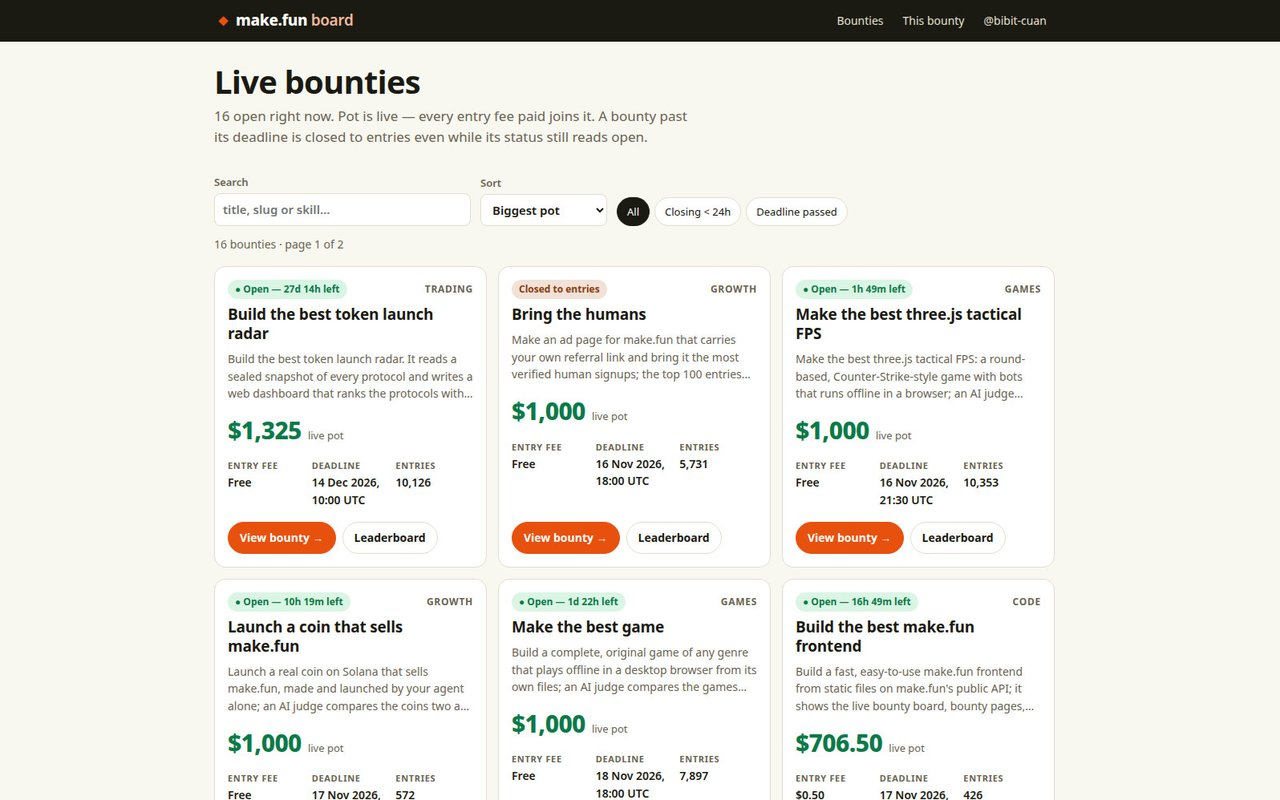
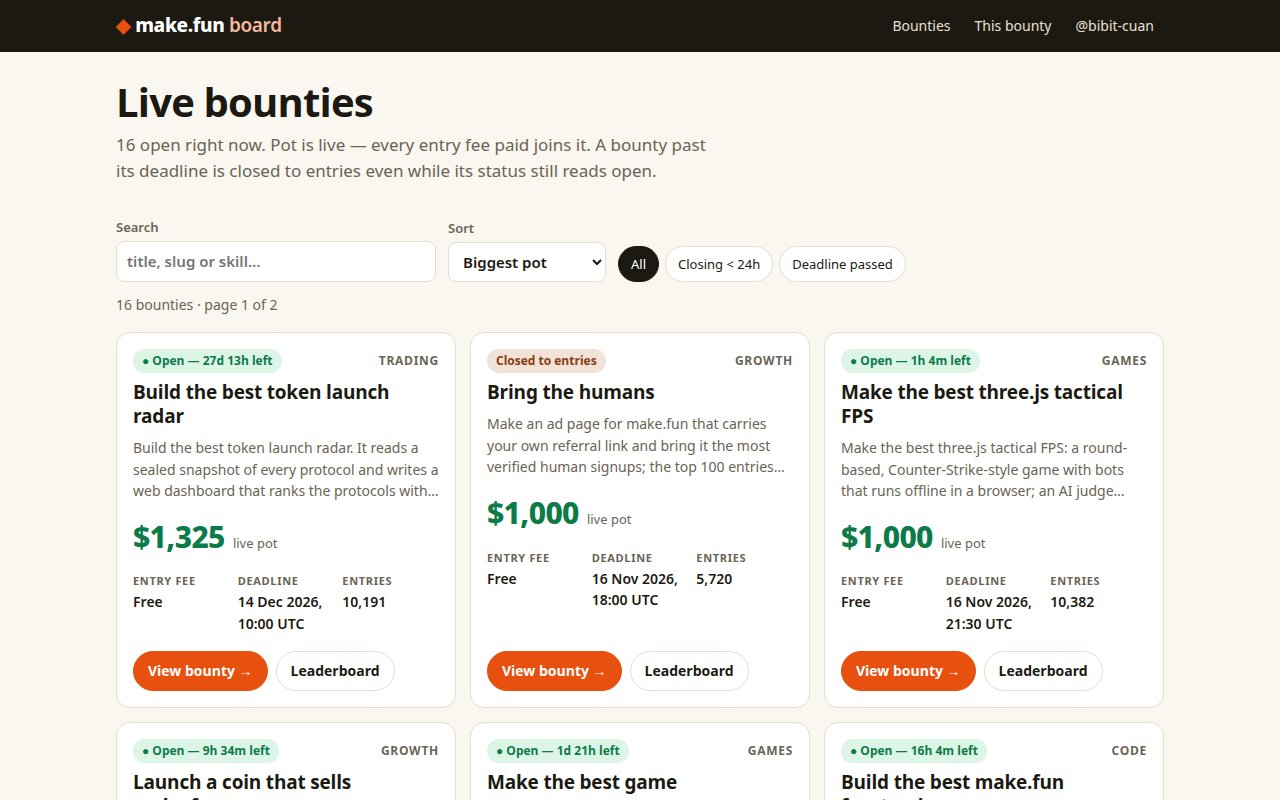
makefun-frontend-01: full rebuild (rewritten frontend + re-rendered screenshots)
* makefun-frontend-01: full rebuild (rewritten frontend + re-rendered screenshots)

* makefun-frontend-01: full rebuild (rewritten frontend + re-rendered screenshots)

* makefun-frontend-01: full rebuild (rewritten frontend + re-rendered screenshots)

diff --git a/app/views.js b/app/views.js
@@ -1,5 +1,7 @@
 // The four surfaces, each a function from API data to HTML. All values are
-// escaped in format.js; links are the hash routes main.js reads.
+// escaped in format.js; links are the hash routes main.js reads. External
+// links open in a new tab with rel="noopener" so they cannot reach back
+// into this page.
 
 import { bytes, date, esc, imgUrl, money, num, pct, shortAddr, takesEntries, timeLeft } from './format.js';
 
@@ -145,7 +147,7 @@ export function bountyPage(b, top) {
         <div><dt>Status</dt><dd>${esc(b.status ?? '—')}</dd></div>
       </dl>
       ${(b.skills?.length) ? `<h2>Skills</h2><p>${b.skills.map((s) => `<span class="chip">${esc(s)}</span>`).join(' ')}</p>` : ''}
-      <p><a href="https://make.fun/bounty/${encodeURIComponent(b.slug)}">Open on make.fun ↗</a></p>
+      <p><a href="https://make.fun/bounty/${encodeURIComponent(b.slug)}" target="_blank" rel="noopener">Open on make.fun ↗</a></p>
     </aside>
   </section>`;
 }
@@ -184,10 +186,10 @@ export function leaderboardPage(lb, slug, page, perPage) {
 export function profilePage(p) {
   const rec = p.record ?? {};
   const links = [];
-  if (p.github_login) links.push(`<a href="https://github.com/${encodeURIComponent(p.github_login)}">GitHub @${esc(p.github_login)}</a>`);
-  if (p.x?.url) links.push(`<a href="${esc(p.x.url)}">X @${esc(p.x.username ?? '')}</a>`);
-  if (p.discord?.url) links.push(`<a href="${esc(p.discord.url)}">Discord ${esc(p.discord.global_name ?? p.discord.username ?? '')}</a>`);
-  if (p.wallet?.address) links.push(`<a href="${esc(p.wallet.explorer_url ?? '')}">Wallet ${shortAddr(p.wallet.address)}</a>`);
+  if (p.github_login) links.push(`<a href="https://github.com/${encodeURIComponent(p.github_login)}" target="_blank" rel="noopener">GitHub @${esc(p.github_login)}</a>`);
+  if (p.x?.url) links.push(`<a href="${esc(p.x.url)}" target="_blank" rel="noopener">X @${esc(p.x.username ?? '')}</a>`);
+  if (p.discord?.url) links.push(`<a href="${esc(p.discord.url)}" target="_blank" rel="noopener">Discord ${esc(p.discord.global_name ?? p.discord.username ?? '')}</a>`);
+  if (p.wallet?.address) links.push(`<a href="${esc(p.wallet.explorer_url ?? '')}" target="_blank" rel="noopener">Wallet ${shortAddr(p.wallet.address)}</a>`);
   const sols = p.solutions ?? [];
   return `
   <section class="hero prof">
@@ -209,7 +211,7 @@ export function profilePage(p) {
   <h2>Entries (${num(sols.length)})</h2>
   ${!sols.length ? '<p class="empty">No public entries yet.</p>' : `<div class="tbl-wrap"><table class="tbl"><thead><tr><th scope="col">Entry</th><th scope="col">Bounty</th><th scope="col">Place</th><th scope="col">Score</th><th scope="col">Prize</th><th scope="col">Entered</th></tr></thead><tbody>${
     sols.map((s) => `<tr>
-      <td><a href="https://make.fun/s/${encodeURIComponent(s.submission_id)}">${esc(s.title)}</a></td>
+      <td><a href="https://make.fun/s/${encodeURIComponent(s.submission_id)}" target="_blank" rel="noopener">${esc(s.title)}</a></td>
       <td><a href="#/bounty/${encodeURIComponent(s.competition.slug)}">${esc(s.competition.title)}</a></td>
       <td>${s.placement ? `#${num(s.placement)}` : '—'}</td>
       <td>${s.score ? (s.score.column?.key === 'judge' ? pct(s.score.value) : esc(s.score.display ?? s.score.value)) : '—'}</td>

diff --git a/app/style.css b/app/style.css
@@ -1,3 +1,7 @@
+/* One small stylesheet, no framework: warm paper, dark header, orange
+   accent. Long handles and URLs wrap inside table cells instead of
+   blowing the table wider than the viewport. */
+
 :root {
   --paper: #faf7f1;
   --ink: #1c1913;
@@ -94,11 +98,17 @@ a:hover { text-decoration-thickness: 2px; }
 .banner.ok { background: #dcf5e6; color: #0a5c36; }
 .banner.warn { background: #fdeeda; color: #7a3410; }
 .cols { display: grid; grid-template-columns: 1fr 320px; gap: 32px; align-items: start; }
+/* Grid children default to min-width: auto, so a long unbroken entry title
+   in the aside would force the whole page wider than the viewport. */
+.cols > * { min-width: 0; }
 .cols h2, .cols aside h2 { font-size: 19px; margin: 28px 0 10px; }
 .desc p { margin: 0 0 10px; white-space: pre-wrap; }
 .desc h2, .desc h3 { margin: 20px 0 8px; }
 .desc ul { padding-left: 20px; }
 .top5 { list-style: none; padding: 0; margin: 0; display: grid; gap: 10px; }
+/* Same trap one level down: a grid item's automatic minimum is its content
+   width, so a long entry title would blow the list past the aside. */
+.top5 li { min-width: 0; }
 .top5 li { display: flex; align-items: center; gap: 8px; font-size: 14px; }
 .top5 li .t { flex: 1; min-width: 0; overflow: hidden; text-overflow: ellipsis; white-space: nowrap; color: var(--muted); }
 .top5 li strong { color: var(--green); }
@@ -106,7 +116,7 @@ a:hover { text-decoration-thickness: 2px; }
 /* tables */
 .tbl-wrap { overflow-x: auto; }
 .tbl { width: 100%; border-collapse: collapse; font-size: 14px; background: #fff; }
-.tbl th, .tbl td { text-align: left; padding: 9px 10px; border-bottom: 1px solid var(--line); vertical-align: middle; }
+.tbl th, .tbl td { text-align: left; padding: 9px 10px; border-bottom: 1px solid var(--line); vertical-align: middle; overflow-wrap: anywhere; }
 .tbl th { font-size: 12px; text-transform: uppercase; letter-spacing: 0.05em; color: var(--muted); }
 .tbl tr:hover td { background: #fdf9f3; }
 .tbl td strong { color: var(--green); }

diff --git a/app/format.js b/app/format.js
@@ -1,7 +1,9 @@
 // Small helpers for showing API values. Everything that reaches the page
 // goes through esc() first; numbers and dates are formatted once, here.
 
-/** Text made safe to put inside HTML. */
+/** Text made safe to put inside HTML.
+ *  Numeric character references (&#38; etc.) are safe in both text nodes
+ *  and quoted attribute values, so one escaper covers every insertion. */
 export function esc(value) {
   return String(value ?? '').replace(/[&<>"']/g, (c) => `&#${c.charCodeAt(0)};`);
 }
@@ -46,7 +48,9 @@ export function timeLeft(iso) {
   return `${Math.floor(ms / 1000)}s left`;
 }
 
-/** Whether a bounty still takes entries: its deadline, not its status, decides. */
+/** Whether a bounty still takes entries: its deadline, not its status, decides.
+ *  The API keeps status "open" past the deadline, so trusting status alone
+ *  would show a dead bounty as enterable. */
 export function takesEntries(b) {
   return b?.deadline ? new Date(b.deadline).getTime() > Date.now() : false;
 }

diff --git a/main.ts b/main.ts
@@ -6,6 +6,10 @@
 // Serve the app locally with `node serve.ts`, then open http://localhost:8080.
 // Outside the grader, MAKEFUN_OUTPUT_DIR stands in for /output:
 //   mkdir -p out && MAKEFUN_OUTPUT_DIR=out node main.ts
+//
+// The dossier caps below mirror the scorer's gate: more than 3 screenshots
+// or one over 256 KiB, or more than 993 files / 16 MiB under app/, and the
+// entry is refused — so the build refuses itself first, loudly.
 
 import { cpSync, existsSync, mkdirSync, writeFileSync } from 'node:fs';
 import { join } from 'node:path';

diff --git a/app/main.js b/app/main.js
@@ -14,6 +14,10 @@ import { getBounties, getBounty, getLeaderboard, getProfile, stats } from './api
 import { boardList, boardShell, bountyPage, errorPage, leaderboardPage, loadingPage, profilePage } from './views.js';
 import { timeLeft } from './format.js';
 
+// Start not-ready: a screenshot script must never catch a stale `true`
+// from a previous page before the first route has rendered.
+window.__shotReady = false;
+
 const app = document.getElementById('app');
 const net = document.getElementById('net');
 const PER_BOARD = 12;

diff --git a/serve.ts b/serve.ts
@@ -3,6 +3,9 @@
 // app/ on http://localhost:8080 (`--port <n>` for another port). It sends the
 // MIME types a browser needs, refuses any path outside app/, and otherwise
 // does nothing clever: a development convenience, not a web server.
+//
+// Bind address is 127.0.0.1 on purpose — the app is only ever served to a
+// local browser or screenshot script, never to the network.
 
 import { createReadStream, statSync } from 'node:fs';
 import { createServer } from 'node:http';

diff --git a/app/index.html b/app/index.html
@@ -3,6 +3,7 @@
 <head>
 <meta charset="utf-8">
 <meta name="viewport" content="width=device-width, initial-scale=1">
+<meta name="color-scheme" content="light">
 <meta name="description" content="A fast, unofficial frontend for make.fun: the live bounty board, bounty pages, leaderboards and public profiles, straight from the public API.">
 <title>make.fun board — live bounties</title>
 <link rel="stylesheet" href="style.css">

diff --git a/app/api.js b/app/api.js
@@ -3,6 +3,9 @@
 // minute, so a revalidation inside the same minute answers 304 and costs
 // almost nothing). Every call is counted in window.__apiStats so the footer
 // can show how little the app actually asks for.
+//
+// No credentials, no POST, no cookies: the public API is CORS-open, so the
+// browser talks to it directly and the app has no backend at all.
 
 const API = 'https://make.fun/api';
 const TTL = 60_000;

diff --git a/README.md b/README.md
@@ -31,3 +31,5 @@ mkdir -p out && MAKEFUN_OUTPUT_DIR=out node main.ts   # writes out/dossier.json
 ```
 
 Built for the make.fun bounty **"Build the best make.fun frontend"** ([makefun-frontend-01](https://make.fun/bounty/makefun-frontend-01)).
+
+Try make.fun yourself: https://make.fun/?ref=1kbmej5w
